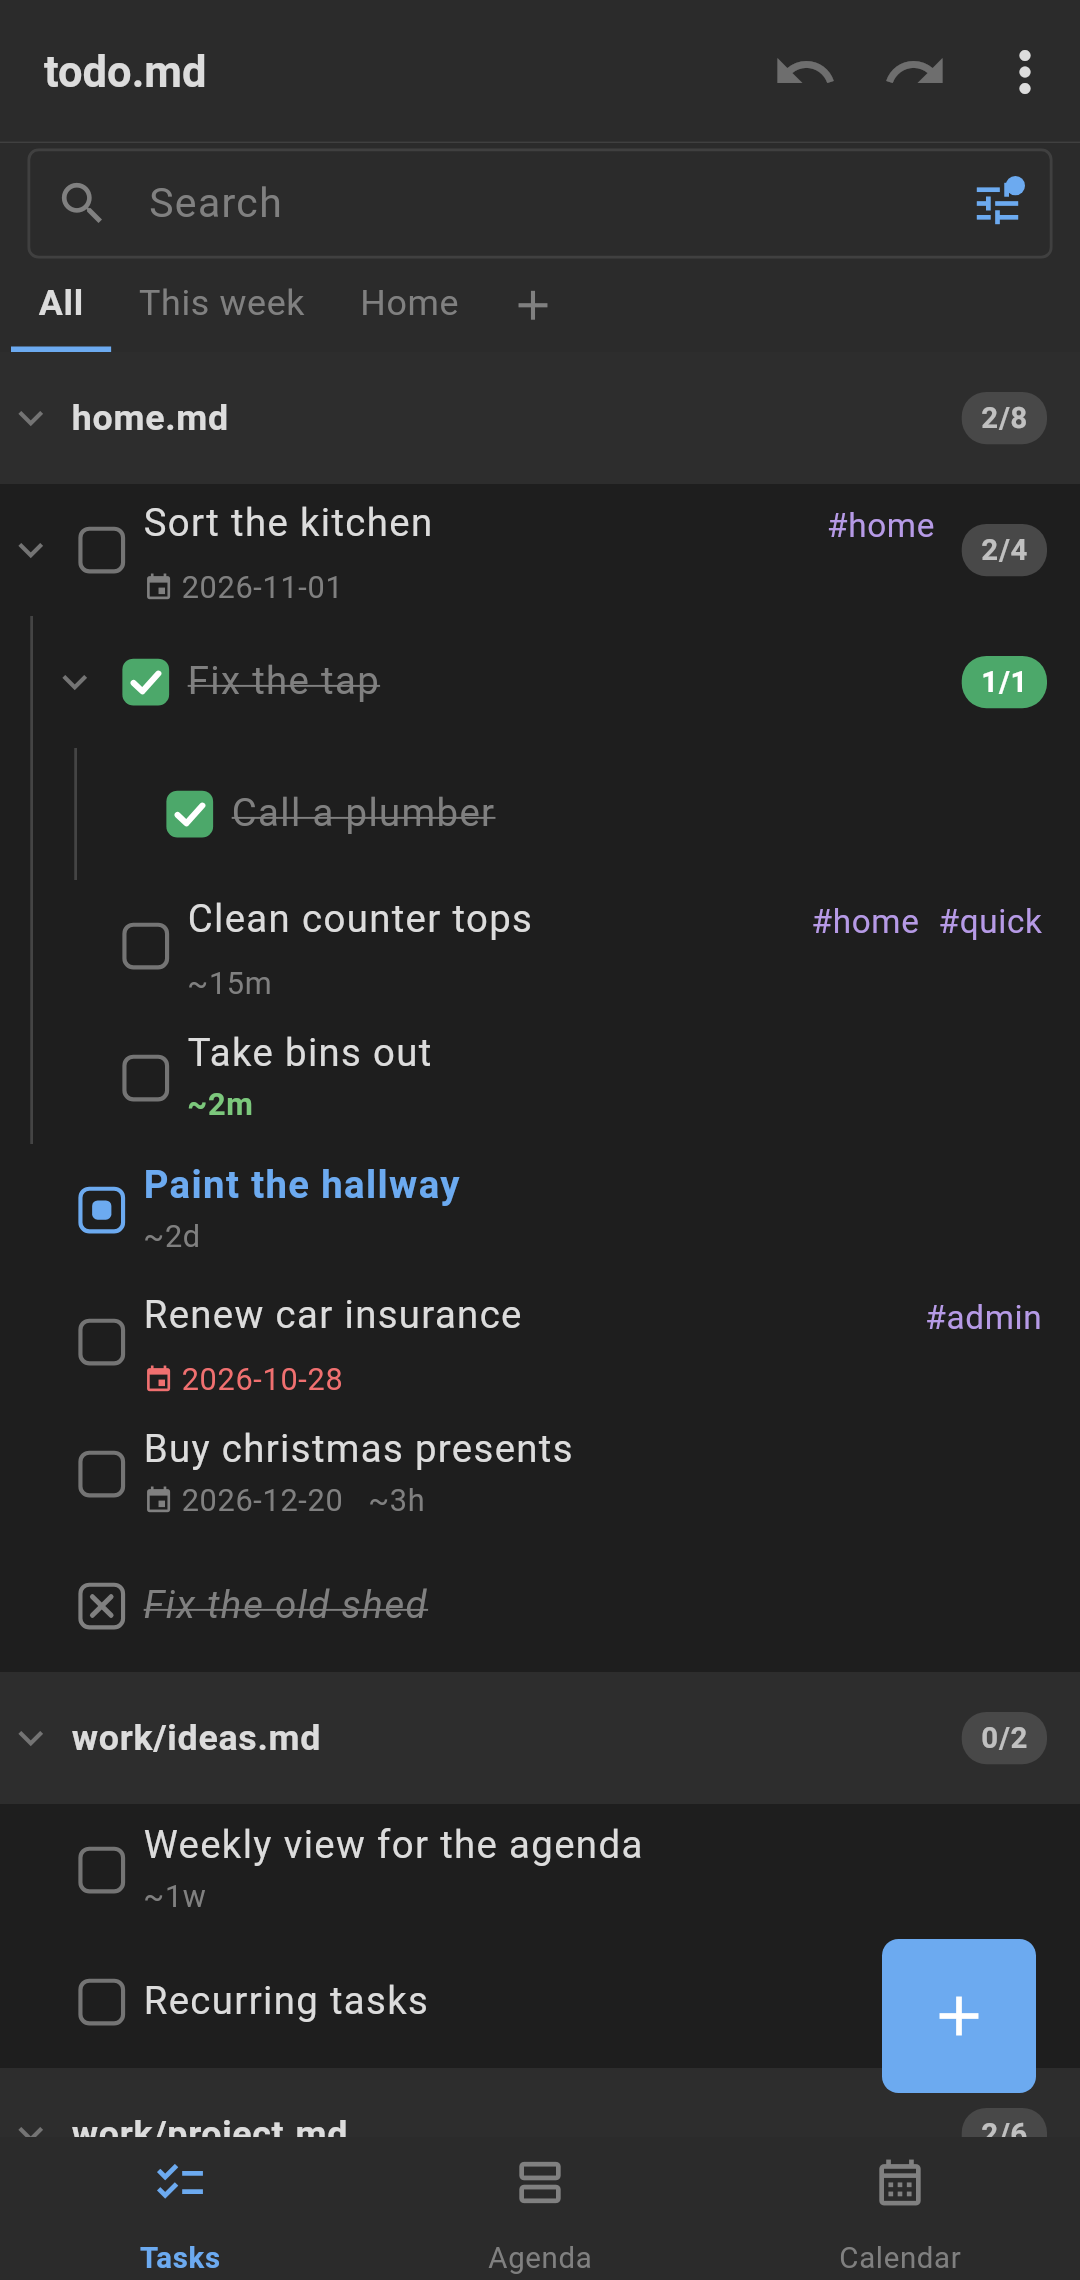
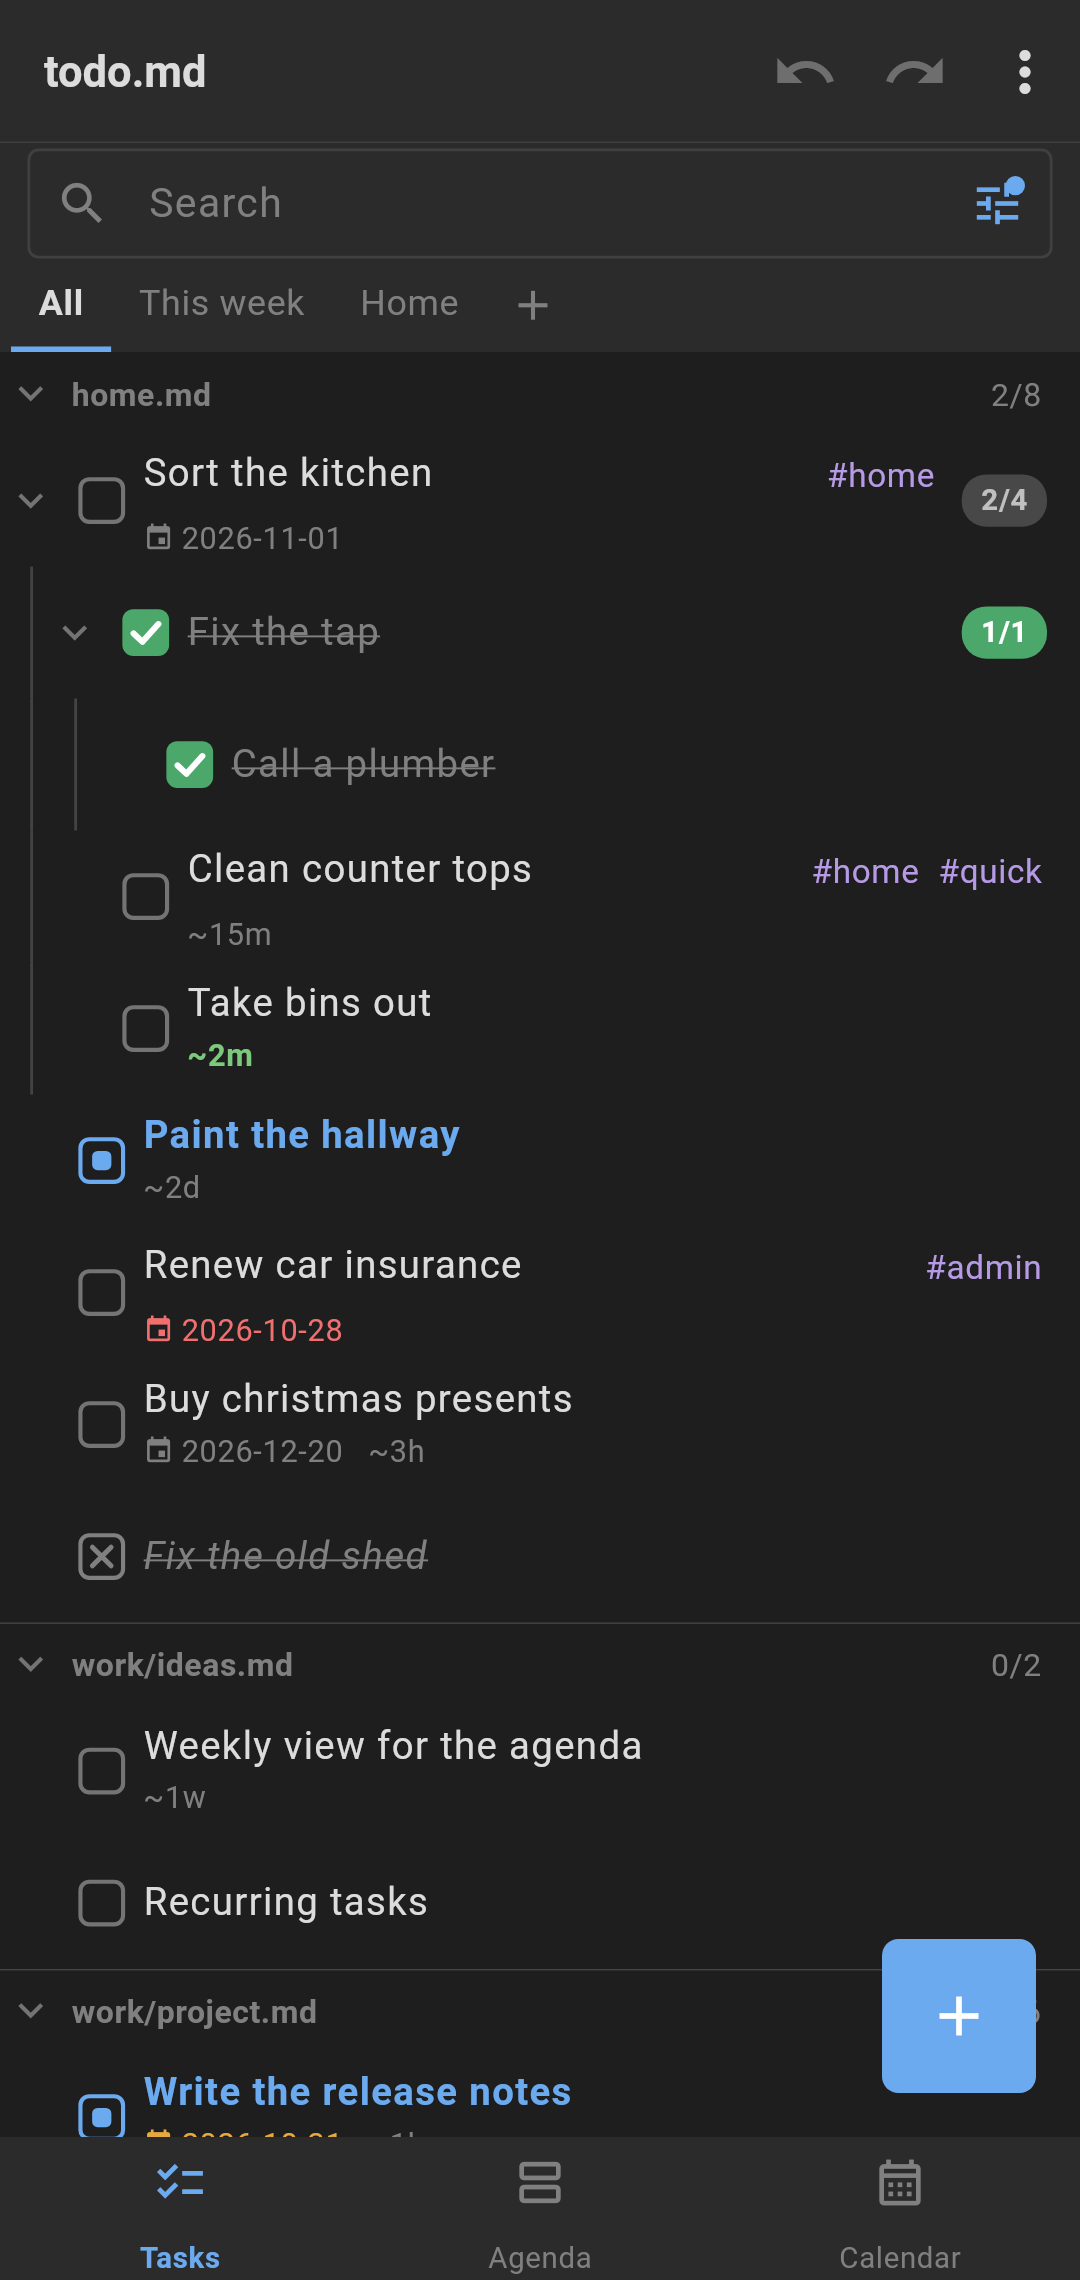
Make filenames less in-uoir-face

diff --git a/lib/ui/task_list.dart b/lib/ui/task_list.dart
@@ -1,5 +1,7 @@
 // The flat tree list shared by the Tasks tab, the Agenda and the calendar's
-// day list. Fixed row extent, so 200k rows scroll and jump in O(1).
+// day list. Tasks are [rowExtent] tall and headers [headerExtent]; with
+// only two heights a row's offset is a binary search over the header rows
+// ([RowLayout]), so 200k rows still scroll and jump without summing heights.
 //
 // Gestures:
 //   tap row          open the task sheet (or toggle selection while selecting)
@@ -12,6 +14,7 @@
 import 'dart:async';
 
 import 'package:flutter/material.dart';
+import 'package:flutter/rendering.dart';
 import 'package:flutter/services.dart';
 
 import '../core/day.dart';
@@ -20,6 +23,7 @@ import '../core/task.dart';
 import 'theme.dart';
 
 const double rowExtent = 48;
+const double headerExtent = 30;
 const double _indentStep = 16;
 const double _chevronWidth = 22;
 const double _checkWidth = 30;
@@ -76,7 +80,24 @@ class _TaskListViewState extends State<TaskListView> {
   Timer? _autoScroll;
 
   @override
+  void initState() {
+    super.initState();
+    widget.model.addListener(_rowsChanged);
+  }
+
+  @override
+  void didUpdateWidget(TaskListView old) {
+    super.didUpdateWidget(old);
+    if (old.model != widget.model) {
+      old.model.removeListener(_rowsChanged);
+      widget.model.addListener(_rowsChanged);
+      _layoutCache = null;
+    }
+  }
+
+  @override
   void dispose() {
+    widget.model.removeListener(_rowsChanged);
     _autoScroll?.cancel();
     _own?.dispose();
     super.dispose();
@@ -85,12 +106,17 @@ class _TaskListViewState extends State<TaskListView> {
   FlatModel get m => widget.model;
   bool get _selecting => widget.selected.isNotEmpty;
 
+  // Rebuilt only when the rows change, not on every rebuild (a status
+  // message, the selection): it scans every row.
+  RowLayout? _layoutCache;
+  RowLayout get _layout => _layoutCache ??= RowLayout(m.rows);
+  void _rowsChanged() => _layoutCache = null;
+
   int? _rowAtGlobal(double globalY) {
     final box = _listKey.currentContext?.findRenderObject() as RenderBox?;
     if (box == null || m.rows.isEmpty) return null;
     final local = box.globalToLocal(Offset(0, globalY)).dy;
-    final i = ((local + _ctrl.offset) / rowExtent).floor();
-    return i.clamp(0, m.rows.length - 1);
+    return _layout.indexAt(local + _ctrl.offset);
   }
 
   void _onLongPressStart(LongPressStartDetails d) {
@@ -202,13 +228,16 @@ class _TaskListViewState extends State<TaskListView> {
           );
           return widget.onRefresh == null ? child : RefreshIndicator(onRefresh: widget.onRefresh!, child: child);
         }
-        Widget list = ListView.builder(
+        Widget list = CustomScrollView(
           key: _listKey,
           controller: _ctrl,
           physics: const AlwaysScrollableScrollPhysics(),
-          itemExtent: rowExtent,
-          itemCount: m.rows.length,
-          itemBuilder: _buildRow,
+          slivers: [
+            _RowSliver(
+              layout: _layout,
+              delegate: SliverChildBuilderDelegate(_buildRow, childCount: m.rows.length),
+            ),
+          ],
         );
         list = Scrollbar(controller: _ctrl, interactive: true, thickness: 6, child: list);
         list = GestureDetector(
@@ -227,7 +256,7 @@ class _TaskListViewState extends State<TaskListView> {
   Widget _buildRow(BuildContext context, int i) {
     final r = m.rows[i];
     if (r.isHeader) {
-      return _HeaderRow(model: m, row: r, onTap: () => _tapRow(i), onChevron: () => m.toggle(i));
+      return _HeaderRow(model: m, row: r, first: i == 0, onTap: () => _tapRow(i), onChevron: () => m.toggle(i));
     }
     final t = r.task!;
     final k = keyOf(t);
@@ -244,10 +273,133 @@ class _TaskListViewState extends State<TaskListView> {
   }
 }
 
+/// Row offsets for a list of [rowExtent] tasks and [headerExtent] headers.
+class RowLayout {
+  RowLayout(List<ListRow> rows)
+    : count = rows.length,
+      _headers = [
+        for (var i = 0; i < rows.length; i++)
+          if (rows[i].isHeader) i,
+      ];
+
+  final int count;
+  final List<int> _headers; // header row indices, ascending
+
+  /// Headers before row [i].
+  int _before(int i) {
+    var lo = 0, hi = _headers.length;
+    while (lo < hi) {
+      final mid = (lo + hi) >> 1;
+      if (_headers[mid] < i) {
+        lo = mid + 1;
+      } else {
+        hi = mid;
+      }
+    }
+    return lo;
+  }
+
+  bool isHeader(int i) {
+    final h = _before(i);
+    return h < _headers.length && _headers[h] == i;
+  }
+
+  double extentOf(int i) => isHeader(i) ? headerExtent : rowExtent;
+
+  double offsetOf(int i) {
+    final h = _before(i);
+    return h * headerExtent + (i - h) * rowExtent;
+  }
+
+  double get total => offsetOf(count);
+
+  /// The row at scroll offset [y] (clamped to the rows).
+  int indexAt(double y) {
+    if (count == 0) return 0;
+    var lo = 0, hi = count - 1;
+    while (lo < hi) {
+      final mid = (lo + hi + 1) >> 1;
+      if (offsetOf(mid) <= y) {
+        lo = mid;
+      } else {
+        hi = mid - 1;
+      }
+    }
+    return lo;
+  }
+}
+
+/// A sliver whose children take their heights from a [RowLayout]. Flutter's
+/// own varied-extent list sums every height above the viewport on each
+/// layout; this asks the layout instead.
+class _RowSliver extends SliverMultiBoxAdaptorWidget {
+  const _RowSliver({required super.delegate, required this.layout});
+  final RowLayout layout;
+
+  @override
+  _RenderRowSliver createRenderObject(BuildContext context) =>
+      _RenderRowSliver(childManager: context as SliverMultiBoxAdaptorElement, layout: layout);
+
+  @override
+  void updateRenderObject(BuildContext context, _RenderRowSliver renderObject) => renderObject.rows = layout;
+}
+
+class _RenderRowSliver extends RenderSliverFixedExtentBoxAdaptor {
+  _RenderRowSliver({required super.childManager, required RowLayout layout}) : _layout = layout;
+
+  RowLayout _layout;
+  set rows(RowLayout v) {
+    if (identical(v, _layout)) return;
+    _layout = v;
+    markNeedsLayout();
+  }
+
+  @override
+  double? get itemExtent => null;
+
+  @override
+  ItemExtentBuilder get itemExtentBuilder => _extent;
+
+  double? _extent(int i, SliverLayoutDimensions _) => i < _layout.count ? _layout.extentOf(i) : null;
+
+  @override
+  double indexToLayoutOffset(double itemExtent, int index) => _layout.offsetOf(index);
+
+  @override
+  int getMinChildIndexForScrollOffset(double scrollOffset, double itemExtent) => _layout.indexAt(scrollOffset);
+
+  @override
+  int getMaxChildIndexForScrollOffset(double scrollOffset, double itemExtent) {
+    final i = _layout.indexAt(scrollOffset);
+    return i > 0 && _layout.offsetOf(i) >= scrollOffset ? i - 1 : i;
+  }
+
+  @override
+  double computeMaxScrollOffset(SliverConstraints constraints, double itemExtent) => _layout.total;
+
+  @override
+  double estimateMaxScrollOffset(
+    SliverConstraints constraints, {
+    int? firstIndex,
+    int? lastIndex,
+    double? leadingScrollOffset,
+    double? trailingScrollOffset,
+  }) => _layout.total;
+}
+
+/// A file (or, in the agenda, a day): a short, quiet line over its tasks, with
+/// a hairline above it rather than a band.
 class _HeaderRow extends StatelessWidget {
-  const _HeaderRow({required this.model, required this.row, required this.onTap, required this.onChevron});
+  const _HeaderRow({
+    required this.model,
+    required this.row,
+    required this.first,
+    required this.onTap,
+    required this.onChevron,
+  });
   final FlatModel model;
   final ListRow row;
+  final bool first;
   final VoidCallback onTap, onChevron;
 
   @override
@@ -255,7 +407,12 @@ class _HeaderRow extends StatelessWidget {
     final colors = context.colors;
     final theme = Theme.of(context);
     final g = model.groups[row.group];
-    final base = theme.textTheme.bodyMedium!.copyWith(fontWeight: FontWeight.w600, fontSize: 14);
+    final base = theme.textTheme.bodySmall!.copyWith(
+      fontWeight: FontWeight.w600,
+      fontSize: 12.5,
+      color: colors.dim,
+      letterSpacing: 0.2,
+    );
     Widget label;
     Widget? trailing;
     final m = model;
@@ -293,21 +450,35 @@ class _HeaderRow extends StatelessWidget {
     } else {
       final f = g.file!;
       label = Text(f.relPath, style: base, maxLines: 1, overflow: TextOverflow.ellipsis);
-      trailing = ProgressPill(done: f.done, total: f.total);
+      if (f.total > 0) {
+        trailing = Text(
+          '${f.done}/${f.total}',
+          style: base.copyWith(
+            fontWeight: FontWeight.w400,
+            color: f.done >= f.total ? colors.done : colors.dim,
+            fontFeatures: const [FontFeature.tabularFigures()],
+          ),
+        );
+      }
     }
     return Material(
-      color: colors.band,
+      color: Colors.transparent,
       child: InkWell(
         onTap: onTap,
-        child: Row(
-          children: [
-            const SizedBox(width: _leftPad),
-            _Chevron(visible: row.hasChildren, expanded: row.expanded, onTap: onChevron),
-            const SizedBox(width: 4),
-            Expanded(child: label),
-            ?trailing,
-            const SizedBox(width: 12),
-          ],
+        child: DecoratedBox(
+          decoration: BoxDecoration(
+            border: first ? null : Border(top: BorderSide(color: colors.guide, width: 0.5)),
+          ),
+          child: Row(
+            children: [
+              const SizedBox(width: _leftPad),
+              _Chevron(visible: row.hasChildren, expanded: row.expanded, onTap: onChevron, height: headerExtent),
+              const SizedBox(width: 4),
+              Expanded(child: label),
+              ?trailing,
+              const SizedBox(width: 14),
+            ],
+          ),
         ),
       ),
     );
@@ -315,9 +486,10 @@ class _HeaderRow extends StatelessWidget {
 }
 
 class _Chevron extends StatelessWidget {
-  const _Chevron({required this.visible, required this.expanded, required this.onTap});
+  const _Chevron({required this.visible, required this.expanded, required this.onTap, this.height = rowExtent});
   final bool visible, expanded;
   final VoidCallback onTap;
+  final double height;
 
   @override
   Widget build(BuildContext context) {
@@ -327,7 +499,7 @@ class _Chevron extends StatelessWidget {
       onTap: onTap,
       child: SizedBox(
         width: _chevronWidth,
-        height: rowExtent,
+        height: height,
         child: AnimatedRotation(
           turns: expanded ? 0.25 : 0,
           duration: const Duration(milliseconds: 120),

diff --git a/test/app_test.dart b/test/app_test.dart
@@ -7,6 +7,7 @@ import 'package:flutter/services.dart';
 import 'package:flutter_test/flutter_test.dart';
 import 'package:shared_preferences/shared_preferences.dart';
 import 'package:todomd/core/day.dart';
+import 'package:todomd/core/models.dart';
 import 'package:todomd/core/store.dart';
 import 'package:todomd/core/task.dart';
 import 'package:todomd/main.dart';
@@ -71,6 +72,32 @@ Future<void> templateLoaded(WidgetTester tester) async {
 }
 
 void main() {
+  test('RowLayout: short headers, offsets and hit rows by binary search', () {
+    ListRow h() => ListRow(null, 0, 0, true, true);
+    ListRow t() =>
+        ListRow(Task(line: 0, indent: 0, state: TaskState.todo, prefix: '- [ ] ', content: 'x'), 0, 1, false, true);
+    final l = RowLayout([h(), t(), t(), h(), t()]);
+    expect(
+      [for (var i = 0; i <= 5; i++) l.offsetOf(i)],
+      [
+        0,
+        headerExtent,
+        headerExtent + rowExtent,
+        headerExtent + 2 * rowExtent,
+        2 * headerExtent + 2 * rowExtent,
+        2 * headerExtent + 3 * rowExtent,
+      ],
+    );
+    expect(l.total, 2 * headerExtent + 3 * rowExtent);
+    expect([l.extentOf(0), l.extentOf(1), l.extentOf(3)], [headerExtent, rowExtent, headerExtent]);
+    expect(l.indexAt(0), 0);
+    expect(l.indexAt(headerExtent - 1), 0);
+    expect(l.indexAt(headerExtent), 1);
+    expect(l.indexAt(headerExtent + 2 * rowExtent + 1), 3);
+    expect(l.indexAt(1e9), 4); // clamped
+    expect(RowLayout(const []).indexAt(10), 0);
+  });
+
   testWidgets('layout: file header, tasks, subtask indented, progress pill', (tester) async {
     final home = await boot(tester);
     expect(home.list.rows.length, 5);

diff --git a/lib/ui/home.dart b/lib/ui/home.dart
@@ -204,8 +204,9 @@ class HomePageState extends State<HomePage> with WidgetsBindingObserver {
       if (!c.hasClients) return;
       final pos = c.position;
       final top = c.offset, bottom = top + pos.viewportDimension;
-      final y = row * rowExtent;
-      if (y >= top && y + rowExtent <= bottom) return;
+      final layout = RowLayout(m.rows);
+      final y = layout.offsetOf(row);
+      if (y >= top && y + layout.extentOf(row) <= bottom) return;
       c.jumpTo((y - pos.viewportDimension / 3).clamp(pos.minScrollExtent, pos.maxScrollExtent));
     });
   }

diff --git a/CLAUDE.md b/CLAUDE.md
@@ -12,7 +12,7 @@ app's own folder). Linux desktop is enabled for development only.
 ## Build / run / test
 
 ```sh
-flutter test                          # core, store/models, widget tests (49)
+flutter test                          # core, store/models, widget tests (50)
 flutter analyze
 flutter test benchmark/               # 200k tasks / 5,000 files, JIT timings
 BENCH_DIR=~/notes flutter test benchmark/
@@ -49,12 +49,12 @@ search box is debounced 150 ms.
 | `lib/core/store.dart` | `TaskStore` (ChangeNotifier): roots, isolate load, per-dir watches, `refresh()`, the only writer, undo/redo. |
 | `lib/core/models.dart` | `FlatModel` / `TaskListModel` / `AgendaModel` (the desktop's `FlatTaskModel`). Rows are `ListRow`. |
 | `lib/core/actions.dart` | The edits behind every action (state, due, ETA, replace, delete, add). Always includes subtasks. |
-| `lib/ui/task_list.dart` | `TaskListView` (fixed 48 px rows, gestures, drag-select), `TaskRow`, `CheckboxPainter`, `ProgressPill`. |
+| `lib/ui/task_list.dart` | `TaskListView` (48 px tasks, 30 px headers: quiet dim line + hairline, no band, plain `done/total`; the user found the old band too big. Two heights so `RowLayout` finds offsets by binary search over header rows and `_RowSliver` uses it: Flutter's own varied-extent list sums every height per layout, too slow at 200k), gestures, drag-select, `TaskRow`, `CheckboxPainter`, `ProgressPill`. |
 | `lib/ui/home.dart` | Tabs, views strip + swiper, search box, selection mode + action bar, all action flows (`MainWindow`). |
 | `lib/ui/filter_sheet.dart` | The search box's tune button: state toggles, ETA preset, tag list, "Search tips". |
 | `lib/ui/calendar.dart` | The desktop sidebar as a tab: month grid (folds to a week), day list, stat tiles. |
 | `lib/ui/task_sheet.dart`, `dialogs.dart`, `add_task.dart`, `tags.dart` | Task sheet; due, ETA, replace, prompts; add-task sheet, `DueRow`, `Pick`; tag pills, tag list, suggestions, picker. |
-| `lib/ui/theme.dart`, `settings.dart`, `settings_page.dart` | Light/Soft/Dark/System and the desktop's Clean/Midnight/Paper (same tokens; accent colours in-progress; Midnight's pill tabs = nav-bar pill; Paper's card = `TaskColors.card`, `_card` in home; no roomier rows, they stay 48 px) + `TaskColors`; SharedPreferences (same keys as the desktop QSettings, plus `SavedView`s); folders page. |
+| `lib/ui/theme.dart`, `settings.dart`, `settings_page.dart` | Light/Soft/Dark/System and the desktop's Clean/Midnight/Paper (same tokens; accent colours in-progress; Midnight's pill tabs = nav-bar pill; Paper's card = `TaskColors.card`, `_card` in home; no roomier rows, tasks stay 48 px) + `TaskColors`; SharedPreferences (same keys as the desktop QSettings, plus `SavedView`s); folders page. |
 | `lib/ui/views.dart` | `ViewStrip` (tabs along the top), `ViewSwiper` (horizontal swipes step views), view editor. |
 | `lib/core/templates.dart`, `lib/ui/templates_page.dart` | Templates: dir, names, save/instantiate; list page, editor, picker. |
 | `lib/ui/help_page.dart`, `filter_help.dart` | ⋮ → Help (how the app works, plain words; keep it in step with features), and the search box's ? sheet (examples tap to apply). |
